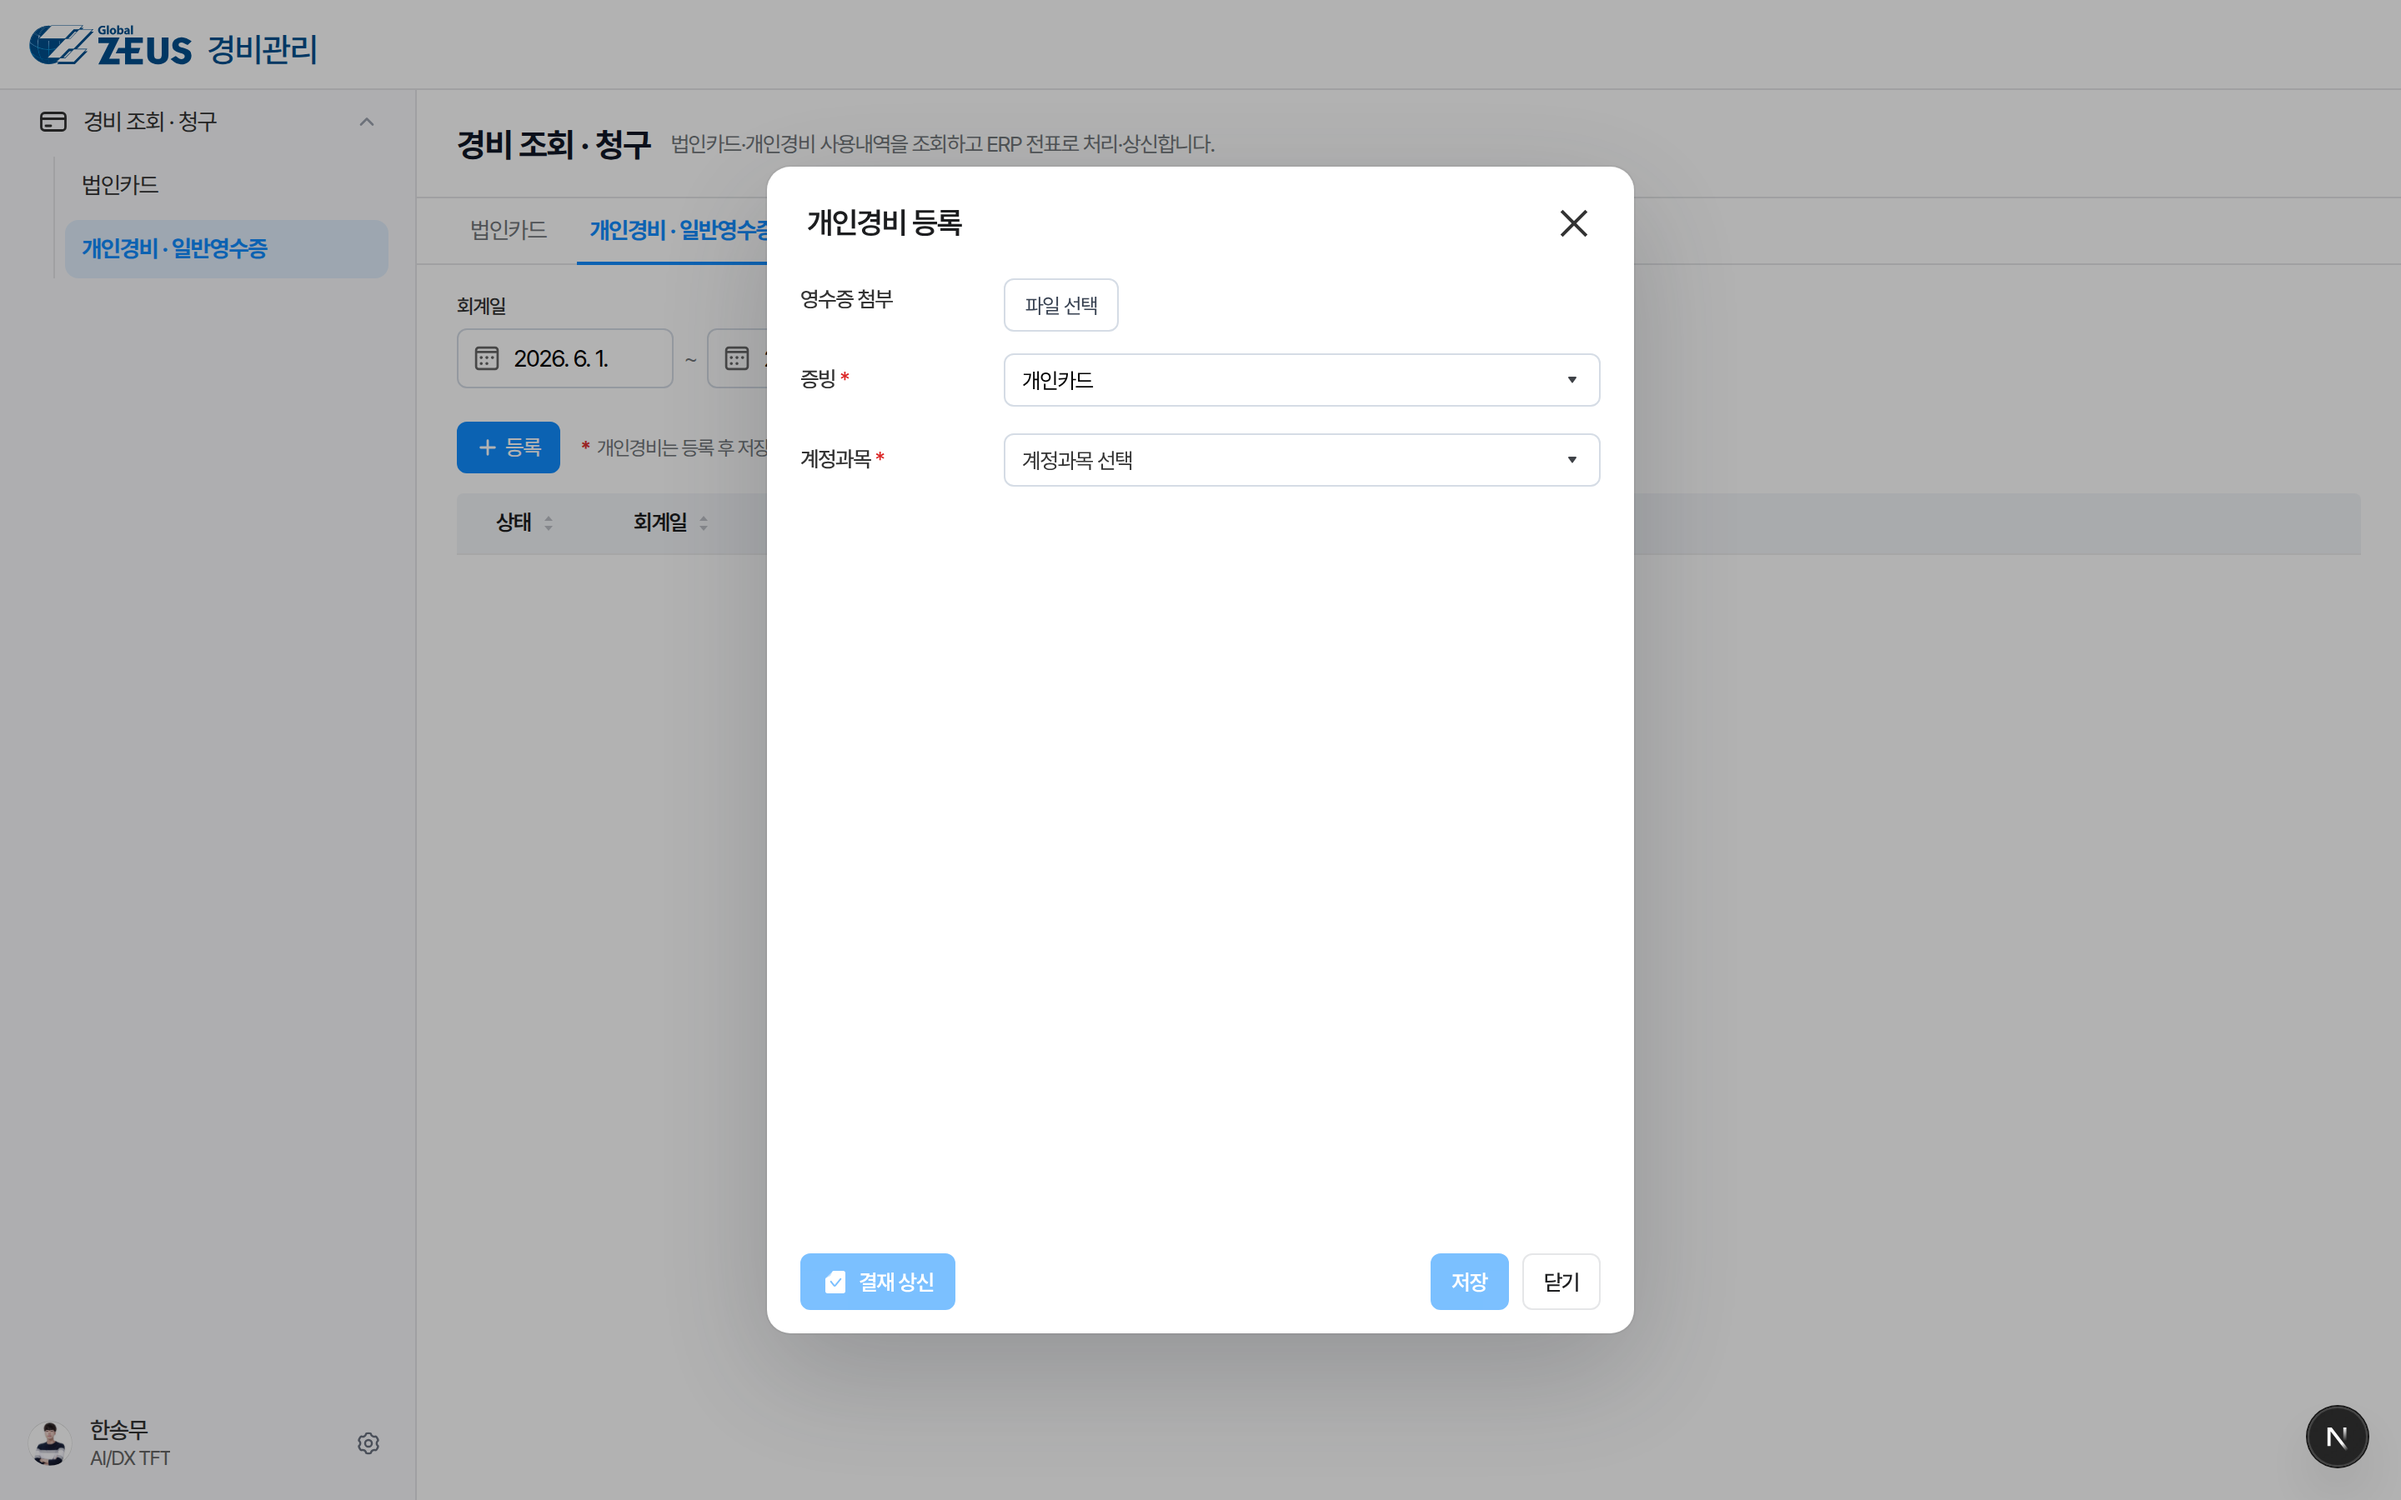
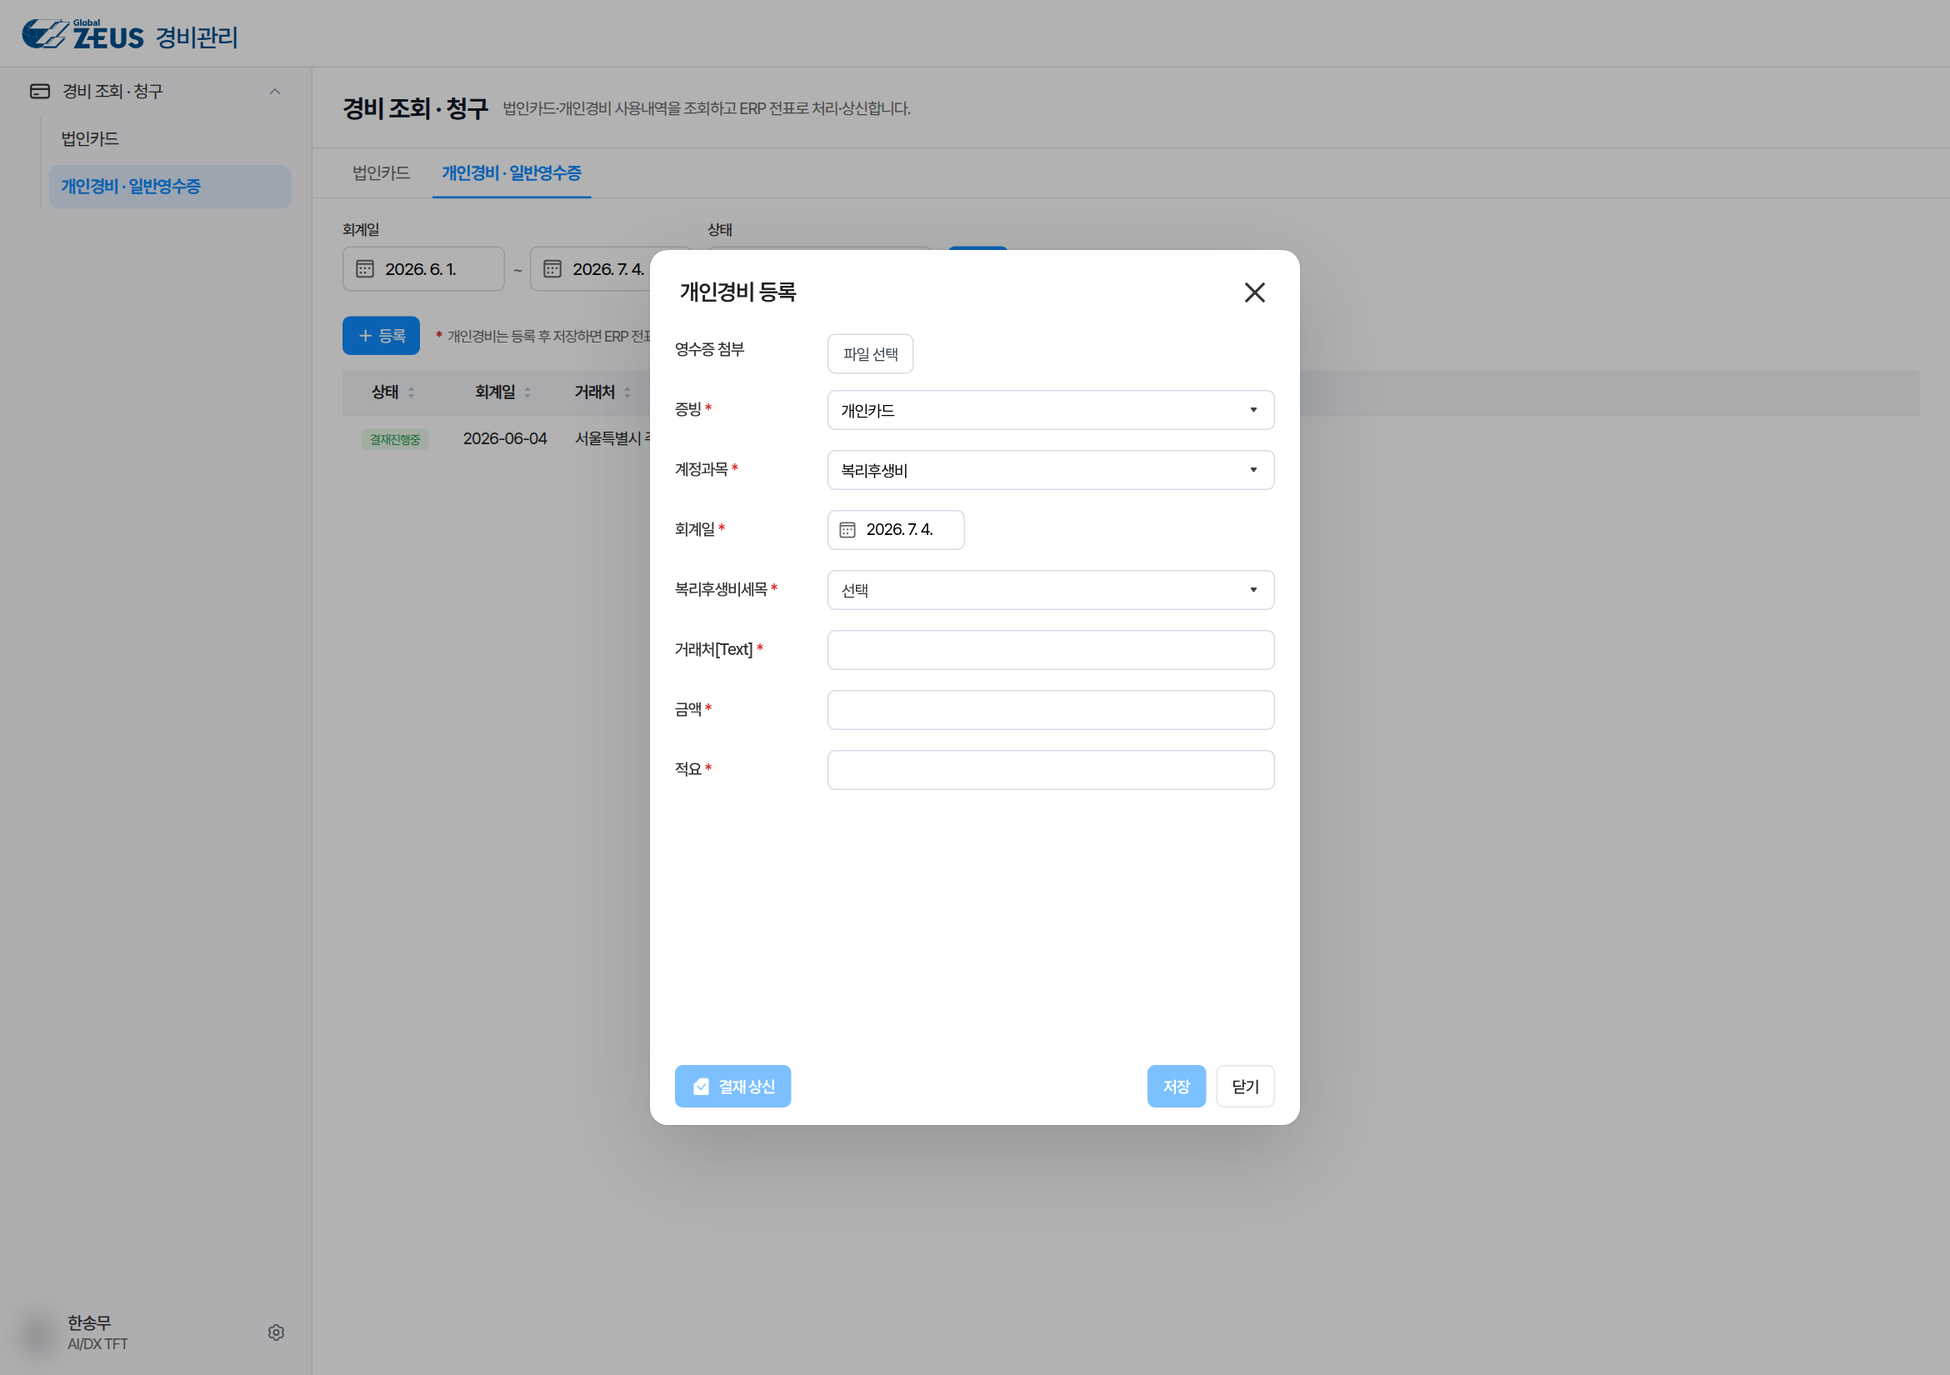
content(expense): 개인경비 등록 전체 입력폼 캡처로 교체
계정과목(복리후생비) 선택 후 세목·거래처·금액·적요까지 펼쳐진 폼으로 교체해
동적 파생 입력 구조가 드러나게 함

diff --git a/src/content/builds.ts b/src/content/builds.ts
@@ -17,7 +17,7 @@ export const builds: Build[] = [
       { type: 'heading', text: '법인카드 경비 처리' },
       { type: 'paragraph', text: 'ERP에 매일 적재되는 카드 사용내역을 실시간으로 연동해, 내 카드의 거래를 건별 처리 상태와 함께 확인하는 화면을 만들었습니다. 카드와 사원이 N:N으로 매핑되는 권한 구조를 그대로 반영했고, 암호화되어 있던 카드번호는 ERP 내장 함수를 찾아 복호화해 표시했습니다.' },
       { type: 'paragraph', text: '입력은 최대한 줄이는 방향으로 설계했습니다. 회계 계정과목을 직접 고르게 하면 비전공자에게는 어려운 선택이 되기 때문에, 경비 처리에 실제로 쓰이는 계정만 화이트리스트로 추리고 세목 선택지는 ERP 계정 정의에서 동적으로 파생되도록 했습니다. 연구 부서의 지출이 경상개발비 계정으로 치환되는 사내 회계 규칙, 전표 귀속 부서를 현재가 아닌 회계일 당시의 발령 이력으로 잡는 규칙 같은 도메인 지식도 로직에 담았습니다.' },
-      { type: 'image', src: '/projects/expense-management/135.png', alt: '개인경비 등록 화면', caption: '개인경비 등록' },
+      { type: 'image', src: '/projects/expense-management/135.png', alt: '개인경비 등록 화면 — 계정과목 선택 후 전체 입력폼', caption: '개인경비 등록 — 계정과목을 고르면 세목과 거래처, 금액 입력란이 이어집니다' },
       { type: 'paragraph', text: '개인경비와 일반영수증도 같은 입력 구조 위에 얹어, 영수증 첨부 → 회계일, 거래처, 금액 입력 → 저장과 상신으로 이어지게 했습니다. 상신 이후의 결재 현황을 모아 보는 화면은 다음 단계인 결재 연동과 함께 채울 예정입니다.' },
       { type: 'heading', text: 'ERP 전표 자동생성 엔진' },
       { type: 'image', src: '/projects/expense-management/160.png', alt: 'ERP 전표 자동생성 엔진 흐름도', caption: '경비 청구가 ERP 회계 전표가 되기까지 — 검증과 채번, 저장이 한 트랜잭션으로 묶입니다.' },

diff --git a/src/content/imageDims.ts b/src/content/imageDims.ts
@@ -59,7 +59,7 @@ export const imageDims: Record<string, { w: number; h: number }> = {
   '/projects/crm/41.png': { w: 372, h: 819 },
   '/projects/crm/42.png': { w: 370, h: 813 },
   '/projects/expense-management/134.png': { w: 2880, h: 1800 },
-  '/projects/expense-management/135.png': { w: 2880, h: 1800 },
+  '/projects/expense-management/135.png': { w: 2340, h: 1650 },
   '/projects/expense-management/141.png': { w: 2880, h: 1800 },
   '/projects/expense-management/157.png': { w: 1170, h: 2532 },
   '/projects/expense-management/158.png': { w: 1170, h: 2532 },
